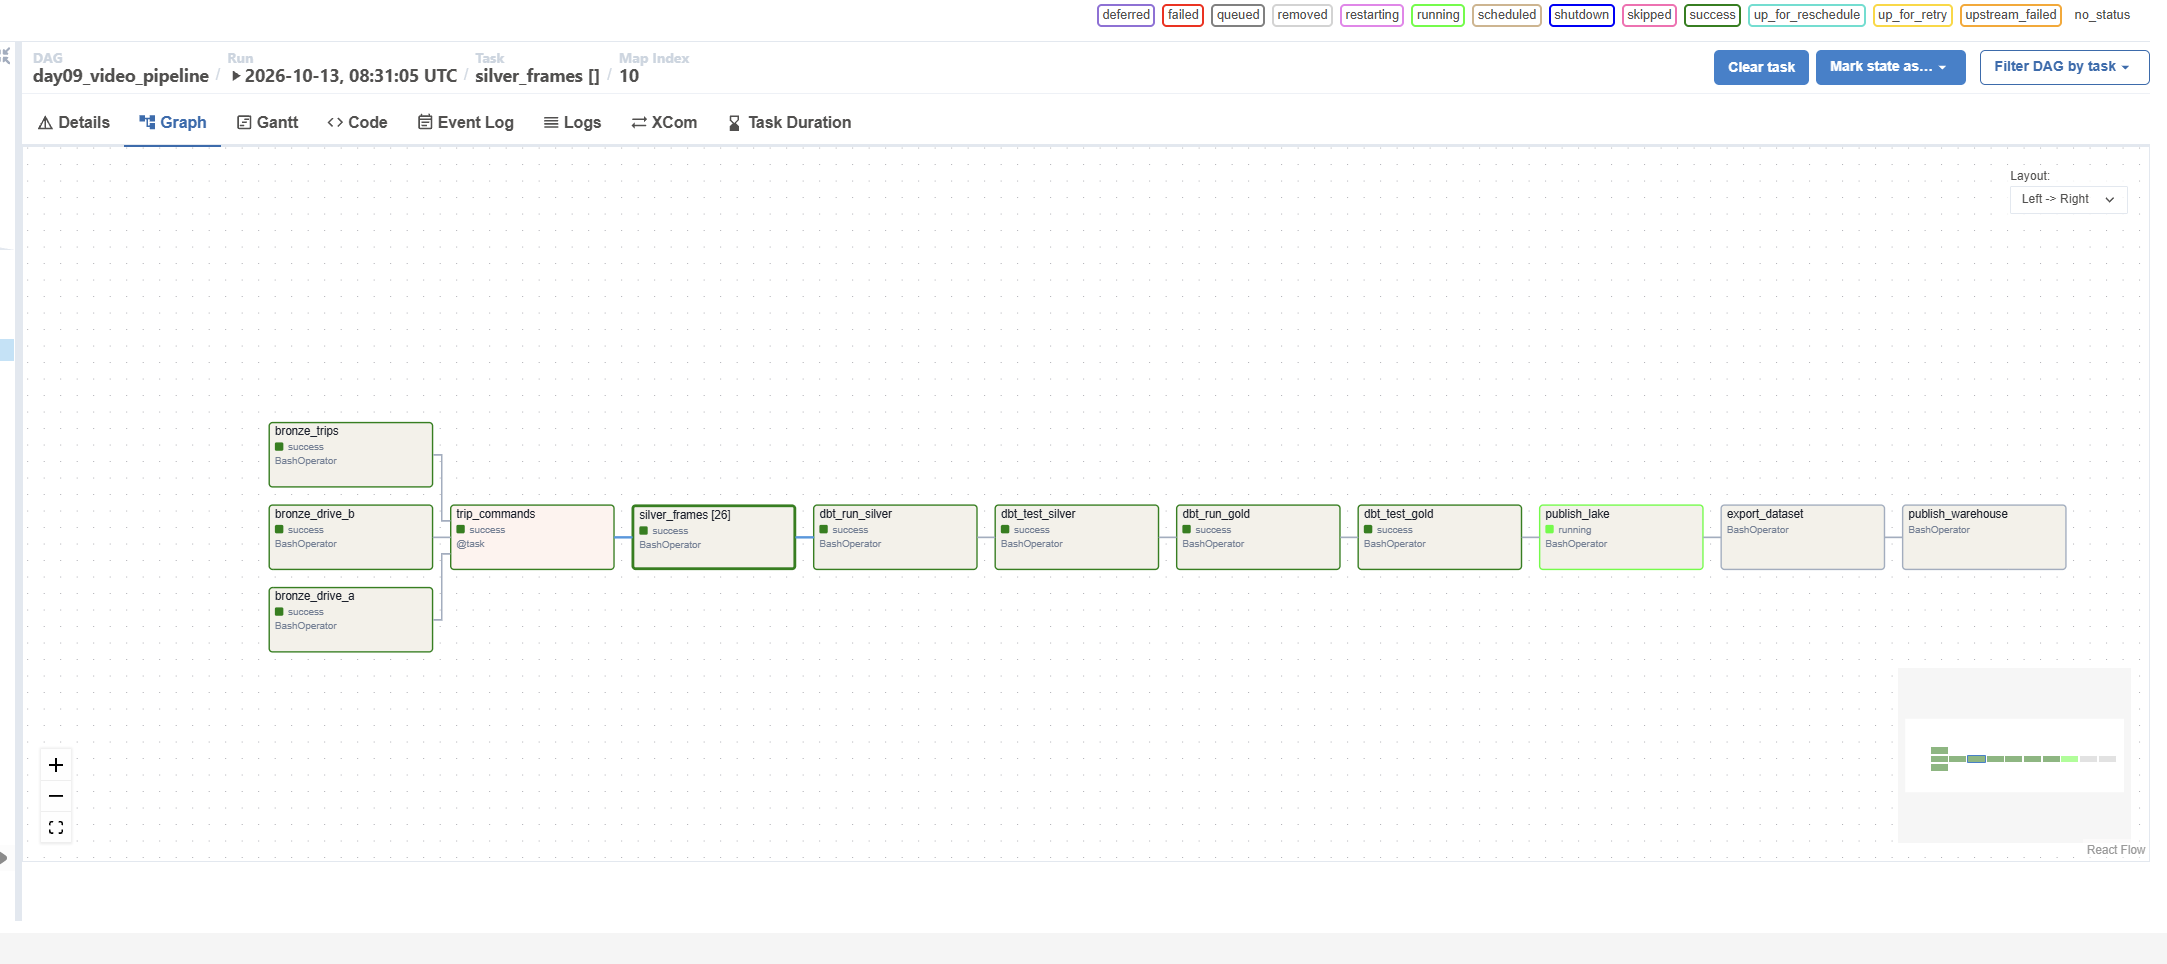
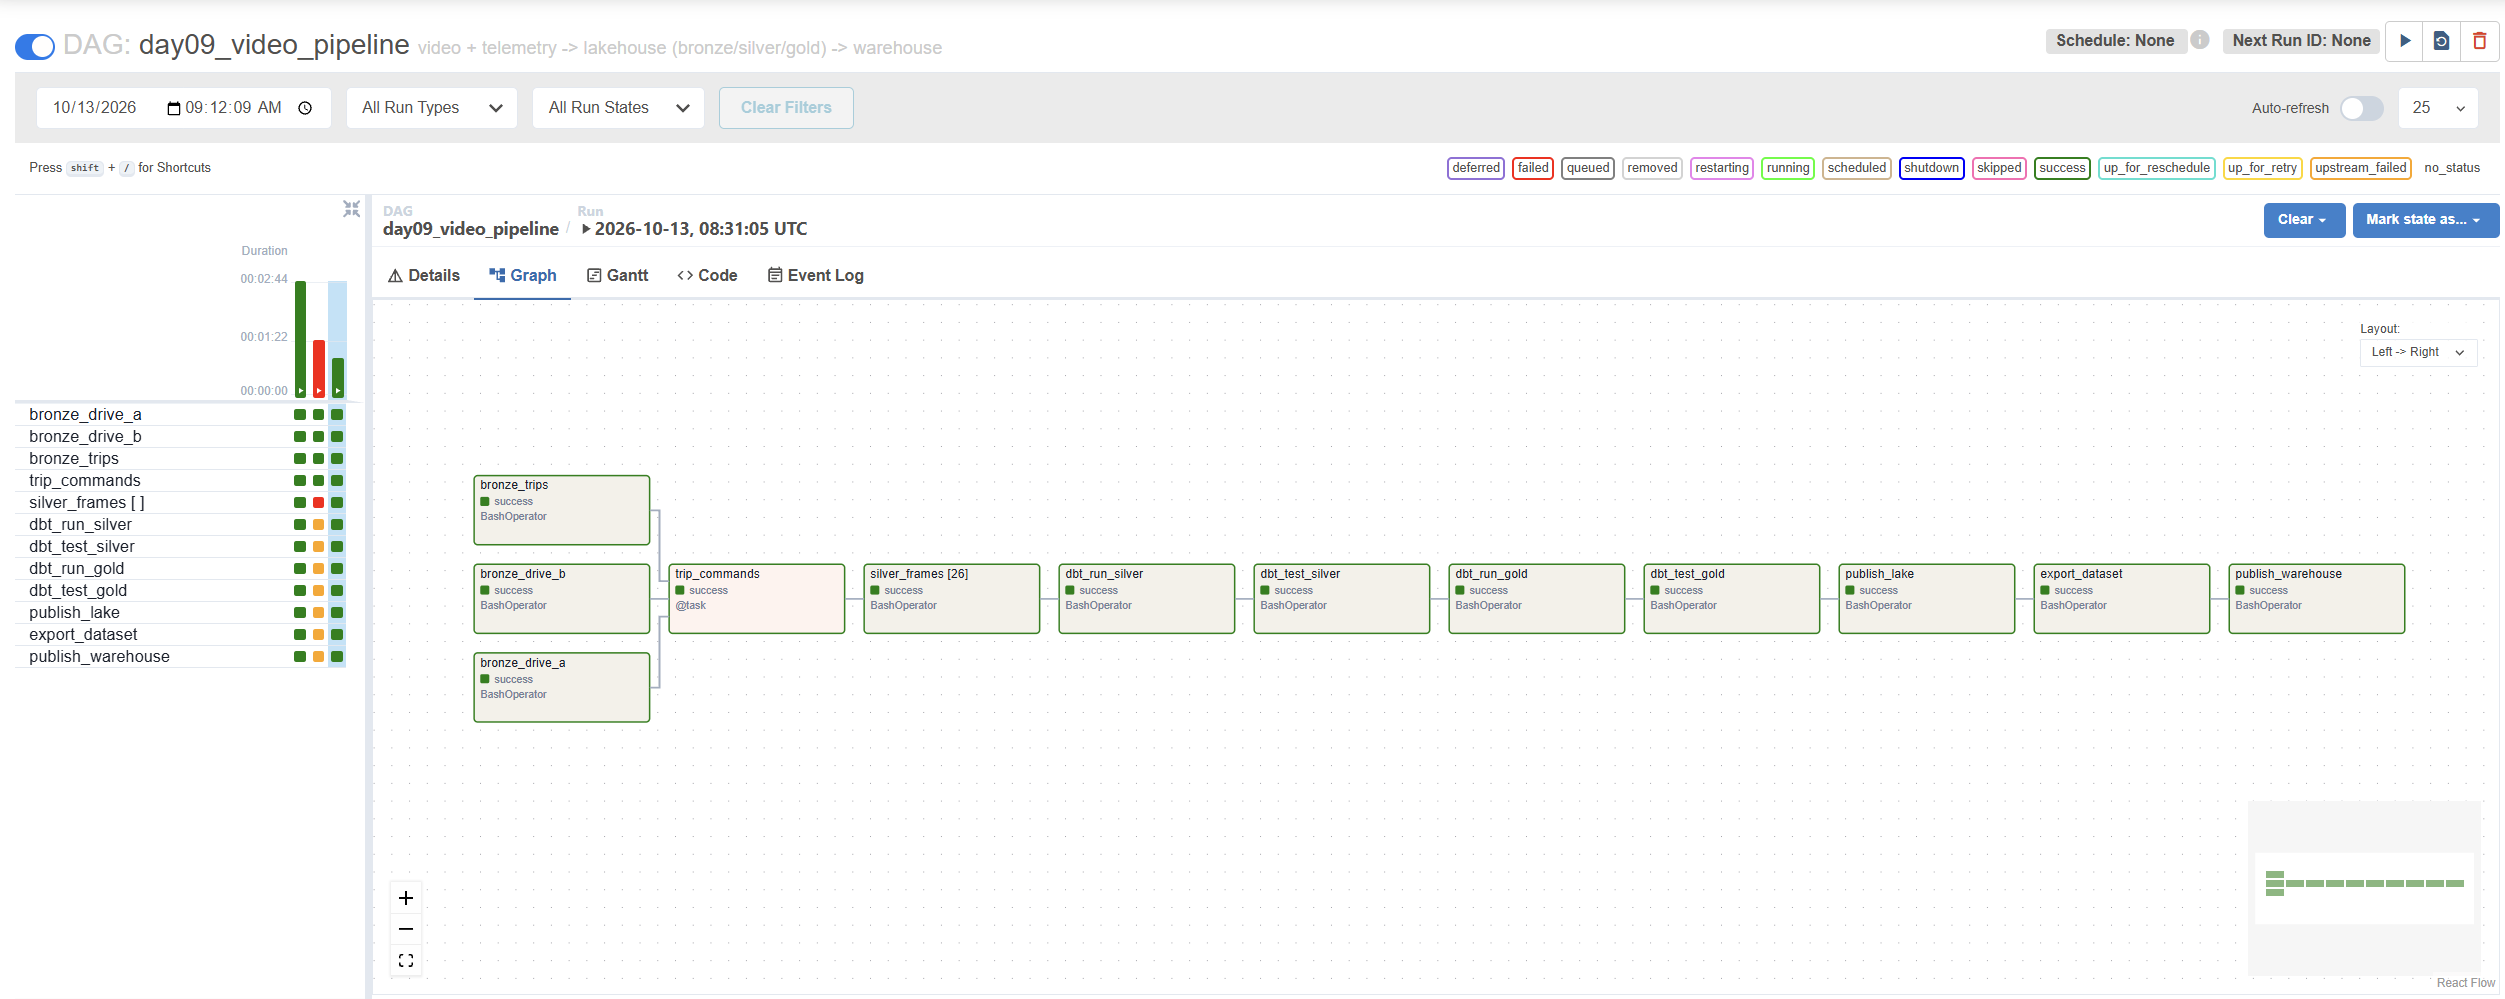
chore: bài nộp cuối — ảnh Metabase/MinIO/retry, bonus sync_tol_ms, verify 27/27

diff --git a/REPORT.md b/REPORT.md
@@ -160,3 +160,31 @@ Kết quả: tỷ lệ loại dao động từ 0% (4 trip, toàn drive_b trừ t
 - **Còn chưa rõ:** chọn ngưỡng 40 cho khung "tối" và 150 ms cho đồng bộ dựa trên căn cứ nào; nên hiệu chỉnh theo từng camera chứ không dùng một số chung.
 - **Lỗi pipeline chưa bắt:** `in_range` chỉ chặn tốc độ ngoài 0..70 m/s; một giá trị sai nhưng vẫn "hợp lệ" (ví dụ nhảy 10 → 60 m/s trong 0,1 s, gia tốc vô lý) hoặc GPS nhảy vị trí vẫn lọt vào silver. Ngoài ra `telemetry_clock_offset_ms` là số khai báo tay — nếu khai sai (lệch 1,5 s thành 0), mọi check vẫn có thể PASS trừ check riêng cho drive B; pipeline nên tự ước lượng độ lệch (ví dụ so tốc độ với chuyển động quang học của video).
 - **Thực tế Windows:** Git tự đổi file `.sh` sang CRLF và làm hỏng script trong container; phải thêm `.gitattributes` (`eol=lf`).
+
+## Điểm cộng · Thí nghiệm riêng: độ nhạy của `sync_tol_ms`
+
+**Câu hỏi:** frame chỉ vào gold nếu telemetry gần nhất (ASOF, mẫu ngay trước frame) cách nó ≤ `sync_tol_ms` (mặc định **150 ms**). Ngưỡng này quyết định bao nhiêu dữ liệu, và có nên đổi không?
+
+**Trước (giá trị gốc 150 ms):** mỗi drive 7 khung `mat_dong_bo` (6 khung lệch > 150 ms + 1 khung không có telemetry nào trước nó); gold **1019 khung** (679 / 186 / 154), `ecfe1509494e`.
+
+**Cách làm:** không sửa `dbt/dbt_project.yml`; chạy `scripts/lab.sh dbt run --select silver_frame_telemetry+ --vars '{sync_tol_ms: N}'` rồi `scripts/lab.sh cli export-dataset`. Bằng chứng: `report/evidence/bonus_sync_tol.json`.
+
+Phân bố `sync_gap_ms` trong `silver.frame_telemetry` (số khung lệch hơn mức đó):
+
+| drive | khung | > 50 ms | > 100 ms | > 150 ms | > 300 ms | > 1000 ms | max |
+|---|---|---|---|---|---|---|---|
+| drive_a | 602 | 271 | 136 | 6 | 6 | 4 | 2884 ms |
+| drive_b | 644 | 327 | 186 | 6 | 6 | 5 | 3112 ms |
+
+**Sau:**
+
+| `sync_tol_ms` | khung gold | train / val / test | `dataset_version` |
+|---|---|---|---|
+| 50 | **538** (−47%) | 356 / 104 / 78 | `7bc556969c5f` |
+| 100 | 762 (−25%) | 509 / 142 / 111 | `e8be39a43099` |
+| **150 (gốc)** | **1019** | 679 / 186 / 154 | `ecfe1509494e` |
+| 1000 | 1022 (+3) | 682 / 186 / 154 | `3da17918c9a8` |
+
+**Giải thích:** telemetry ghi khoảng 12–13 Hz (mẫu cách nhau ≈ 77–80 ms, ví dụ `08:00:00.014` → `.091`), nên khi ghép ASOF độ lệch của một frame bình thường rải đều trong 0–80 ms (trung bình 66–73 ms ở bước 3). Ngưỡng **dưới chu kỳ lấy mẫu** (50, 100 ms) loại cả frame hoàn toàn bình thường chỉ vì rơi vào cuối khoảng giữa hai mẫu — mất 25–47% dataset mà không tăng chất lượng. Từ 150 đến 300 ms con số **không đổi**: chỉ còn các frame thật sự rơi vào khoảng mất tín hiệu (khoảng hở 3073 ms ở A, 3124 ms ở B mà `max_gap_ms` đã WARN ở bước 2). Nâng lên 1000 ms chỉ cứu thêm 3 frame, nhưng các frame này mang telemetry cũ tới 1 s: ở 90 km/h là sai vị trí ~25 m và sai tốc độ/góc lái — nhãn sai lọt vào gold. Số trip mỗi split không đổi (18/4/4) vì split theo trip, nhưng `dataset_version` đổi ở mọi lần thử, đúng như Câu 7: version băm nội dung nên đổi ngưỡng là ra dataset khác.
+
+**Kết luận:** 150 ms (≈ 2 chu kỳ telemetry) là điểm hợp lý — nằm ngay trên chu kỳ lấy mẫu, dưới mọi khoảng mất tín hiệu thật. Quy tắc tổng quát: `sync_tol_ms` nên đặt theo tần số telemetry của từng nguồn (≈ 1,5–2 × chu kỳ), không phải một số cố định. **Khôi phục:** chạy lại `scripts/lab.sh step all --reset` với giá trị gốc 150 ms → 27/27, `dataset_version` trở lại `ecfe1509494e` (`run_summary.json`).
